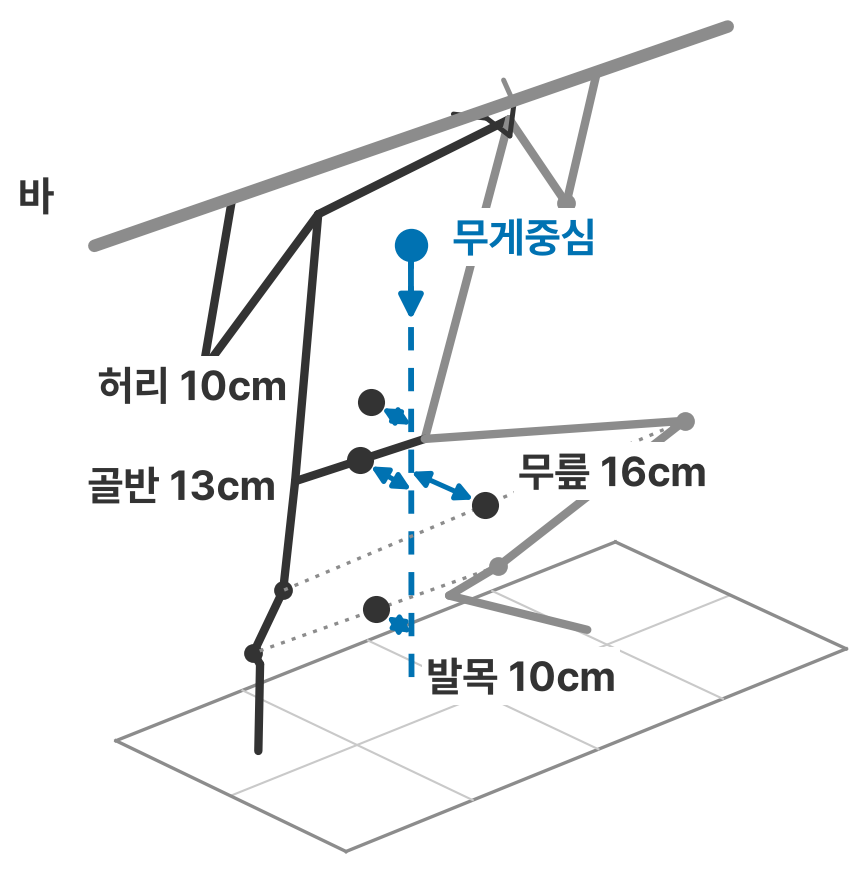
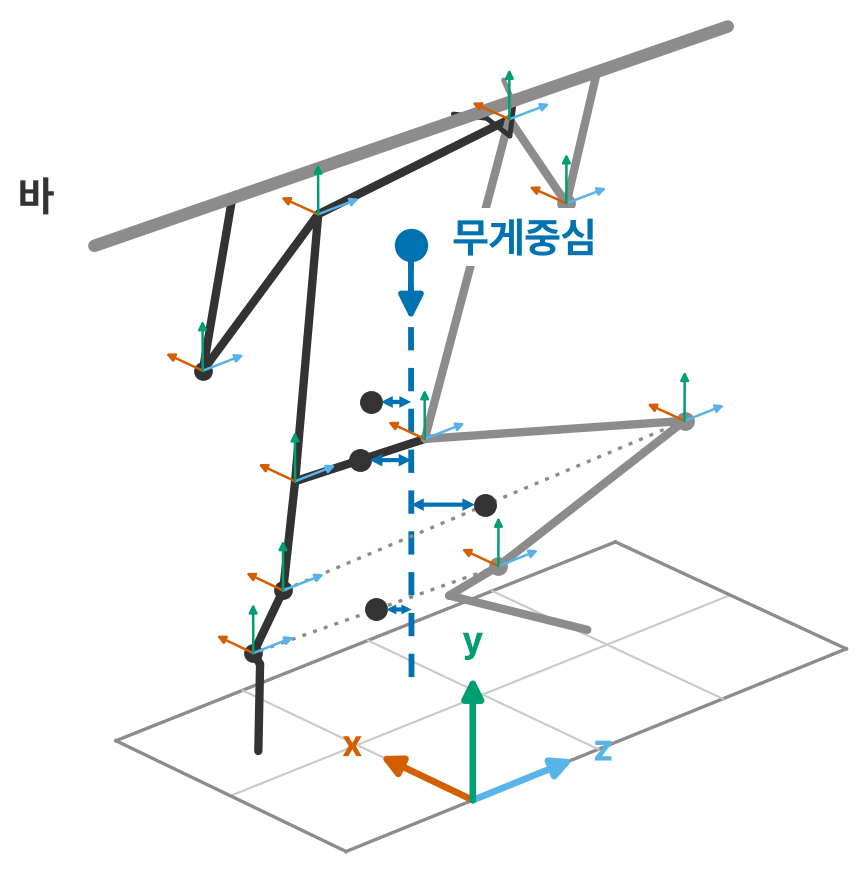
feat: 2장 하중 경로 그림, 관절 cm 이름표 대신 좌우 모멘트 암 화살표와 xyz 축 (#6)
- 관절 이름표 넷("허리 10cm" 등) 삭제, 시점은 보고서 그림 24 와 같은 사선 위 그대로
- 관절 점에서 무게중심선까지 화면 기준 좌우 화살표. 짧은 화살표는 촉을 길이에 맞춰 줄이고, 촉은 테두리 없이 채움
- 바닥 좌표계 원점에 x, y, z 축과 글자, 양쪽 어깨, 팔꿈치, 골반, 무릎, 발목에 얇은 축(x 빨강, y 초록, z 하늘색)
- load_path_arms.png 다시 그림

diff --git a/app/src/sessions/graduation-review/assets/make_load_path.py b/app/src/sessions/graduation-review/assets/make_load_path.py
@@ -1,11 +1,16 @@
 """Draw slide 2's load-path figure: one squat bottom frame, four joints, four moment arms.
 
 A slide variant of figure 24 from rack-tracker's report (#635 `make_figures.py`,
-`fig24_load_path`). Same frame and drawing, with three changes for the slide: the
-floor tick numbers are gone, each joint label carries its distance to the
-centre-of-mass line in cm, and the labels are larger. The data file is a copy of
+`fig24_load_path`). Same frame, view and drawing, with four changes for the
+slide: the floor tick numbers and the joint labels are gone; each joint's arrow to
+the centre-of-mass line is drawn left-right on the page (in this view the
+front-back arm runs into the page, so the figure's 3D arrow is only a few points
+long and its two heads merge into a blob); and the floor frame's x, y, z axes are
+drawn at the floor origin and, thin, at both shoulders, elbows, hips, knees and
+ankles, to show the figure is 3D.
+The data file is a copy of
 the report's `data/fig24_squat_bottom.json` (session 20261012-115120, set 1, rep 3,
-bar 100kg); the distances are its `arm_cm`, rounded.
+bar 100kg).
 
     python make_load_path.py
 """
@@ -43,11 +48,18 @@ BONES = [("left_shoulder", "right_shoulder"), ("left_shoulder", "left_elbow"), (
          ("right_hip", "right_knee"), ("right_knee", "right_ankle"), ("left_ankle", "left_heel"),
          ("left_heel", "left_foot_index"), ("right_ankle", "right_heel"), ("right_heel", "right_foot_index"),
          ("nose", "left_eye"), ("nose", "right_eye"), ("left_eye", "left_ear"), ("right_eye", "right_ear")]
-# joint key -> (label, label offset in pt, which side of the dot the label sits). The labels left of the line
-# sit past the near leg so their white plates do not cut it; the ankle label goes below the line's foot, away from
-# the near knee dot
-JOINTS = {"ankle": ("발목", (12, -16), "left"), "knee": ("무릎", (8, 8), "left"), "hip": ("골반", (-20, -6), "right"),
-          "lumbar": ("허리", (-20, 4), "right")}
+# joints whose moment arm is drawn: a dot, and a two-headed arrow from it to the centre-of-mass line
+JOINTS = ("ankle", "knee", "hip", "lumbar")
+ARM_HEAD = 3.0         # longest arrow head (pt); a short arrow gets smaller heads so its shaft still shows
+ARM_SHRINK = 2.4       # pt, just past the dot's edge so the near head is not hidden under it
+ARM_LW = 1.0
+JOINT_MS = 4.5         # joint dot size (pt); ARM_SHRINK is just past its radius
+# floor frame axes as plot directions (y is up, z comes toward the viewer), coloured x red, y green, z blue as in
+# 3D tools; z is a light blue so it is not read as the centre-of-mass accent
+AXES = (("x", (1, 0, 0), "#D55E00"), ("y", (0, 0, 1), "#009E73"), ("z", (0, -1, 0), "#56B4E9"))
+ORIGIN_AXIS = 20       # cm, axes at the floor origin (the floor board's corner)
+JOINT_AXIS = 8         # cm, thin axes at each joint below, both sides
+AXIS_JOINTS = tuple(f"{s}_{k}" for s in ("right", "left") for k in ("shoulder", "elbow", "hip", "knee", "ankle"))
 
 
 class Arrow3D(FancyArrowPatch):
@@ -128,6 +140,16 @@ def main():
     for v in range(y0, y1 + 1, FLOOR_STEP):
         line((x0, v, 0), (x1, v, 0), color=MID if v in (y0, y1) else LIGHT, lw=0.8 if v in (y0, y1) else 0.5)
 
+    def axes_at(p, size, lw, scale, names=False):
+        for name, d, color in AXES:
+            ax.add_artist(Arrow3D(p, tuple(a + size * b for a, b in zip(p, d)), arrowstyle="-|>", mutation_scale=scale,
+                                  shrinkA=0, shrinkB=0, color=color, lw=lw))
+            if names:
+                ax.text(*(a + (size + 6) * b for a, b in zip(p, d)), name, fontsize=9, color=color, ha="center",
+                        va="center", fontweight="bold", fontstyle="italic")
+
+    axes_at((0, 0, 0), ORIGIN_AXIS, 1.6, 10, names=True)
+
     # body: far (left) limbs light, near (right) limbs and trunk dark, face thin
     for a, b in BONES:
         if a not in J or b not in J:
@@ -138,6 +160,8 @@ def main():
     for side, color in (("left", MID), ("right", DARK)):
         for k in ("elbow", "knee", "ankle"):
             dot(J[f"{side}_{k}"], ms=3.5, color=color)
+    for n in AXIS_JOINTS:
+        axes_at(J[n], JOINT_AXIS, 0.6, 4)
     tip = lambda s: tuple(c + s * BAR_HALF * m for c, m in zip(bar, ml))      # noqa: E731
     line(tip(-1), tip(1), color=MID, lw=3.0, solid_capstyle="round")
     tag(tip(1), "바", -14, 12)
@@ -149,15 +173,27 @@ def main():
                           shrinkB=0, color=ACCENT, lw=1.4))
     tag(com, "무게중심", 10, 2, color=ACCENT, ha="left")
 
-    # joint points and their distance to the line
+    # joint points, and a left-right arrow on the page from each to the line at the dot's height
     for side in ("knee", "ankle"):
         line(J[f"left_{side}"], J[f"right_{side}"], color=MID, lw=0.8, ls=DOTTED)
-    for k, (name, (dx, dy), ha) in JOINTS.items():
+    from mpl_toolkits.mplot3d import proj3d
+    M = ax.get_proj()
+    page = lambda p: proj3d.proj_transform(*p, M)[:2]                       # noqa: E731
+    (cx0, cy0), (cx1, cy1) = page(com), page((com[0], com[1], 0))
+    for k in JOINTS:
         p = pts[k]
-        dot(p, ms=5.5, color=DARK)
-        tag(p, f"{name} {abs(D['arm_cm'][k]):.0f}cm", dx, dy, ha=ha)
-        ax.add_artist(Arrow3D(p, (com[0], com[1], p[2]), arrowstyle="<|-|>", mutation_scale=8, shrinkA=3, shrinkB=0,
-                              color=ACCENT, lw=1.2))
+        dot(p, ms=JOINT_MS, color=DARK)
+        x, y = page(p)
+        lx = cx0 + (cx1 - cx0) * (y - cy0) / (cy1 - cy0)
+        span = abs(ax.transData.transform((lx, y))[0] - ax.transData.transform((x, y))[0]) * 72 / fig.dpi
+        head = min(ARM_HEAD, (span - ARM_SHRINK) / 3.5)
+        # heads filled with no outline (an outline swells them by about its width and two heads on a 7pt arrow
+        # merge), then the shaft as its own line, ending inside the heads
+        at = dict(xy=(lx, y), xytext=(x, y), xycoords="data")
+        ax.annotate("", **at, arrowprops=dict(arrowstyle=f"<|-|>,head_length={head:.2f},head_width={0.5 * head:.2f}",
+                                              mutation_scale=1, shrinkA=ARM_SHRINK, shrinkB=0, color=ACCENT, lw=0))
+        ax.annotate("", **at, arrowprops=dict(arrowstyle="-", shrinkA=ARM_SHRINK + head / 2, shrinkB=head / 2,
+                                              color=ACCENT, lw=ARM_LW))
 
     fig.savefig(OUT, dpi=300, facecolor="white", bbox_inches=drawn_bbox(fig))
     plt.close(fig)

diff --git a/docs/issues/feature/6-feature-graduation-review-media.md b/docs/issues/feature/6-feature-graduation-review-media.md
@@ -15,12 +15,14 @@ Parent: #6
 - 1장 왼쪽 칸에 글자 없는 리그 설계도 회전 영상.
 - 7~10장 애니메이션이 칸을 채우고, 움직이는 곳이 화면에서 크게 보인다.
 - 8장 두 영상에 바닥 앵커, 랙 앵커, 검산 코너가 나온다.
+- 2장 하중 경로 그림에서 관절마다 무게중심선까지의 거리가 화살표로 보이고, 3D 좌표라는 것이 드러난다.
 
 ## Scope
 - `slides/Slide01.jsx`, `Slide01.module.css`: 왼쪽 칸 영상.
 - `components/MediaPair.jsx`, `deck.css`(gr-media 절), `slides/Media.module.css`: 7~10장 배치.
 - `slides/Slide07.jsx`~`Slide10.jsx`: `MediaPair` 부분.
 - `app/public/graduation-review/`: mp4.
+- `assets/make_load_path.py`, `assets/load_path_arms.png`: 2장 그림.
 
 ## Out Of Scope
 - 7~10장의 단계 번호("05 · 네 절차"), 3~6장, 11장, `slides/index.js`, 세션 문서의 장 순서. 같은 working tree 에서 다른 작업이 고치는 중이라 이 issue 에 넣지 않는다.
@@ -32,6 +34,7 @@ Parent: #6
 - [x] 7~10장 애니메이션 칸 확대, 시연 영상은 오른쪽에 본문 높이 전체.
 - [x] 애니메이션 넷을 카메라 이동판으로 교체, 8장 시연 영상 다시 자르기.
 - [x] 1장, 7~10장 캡처 확인.
+- [x] 2장 그림의 좌우 화살표와 xyz 축, 캡처 확인.
 
 ---
 
@@ -60,6 +63,20 @@ Parent: #6
 - 1장과 7~10장을 캡처해 봤다. 8장 캡션 둘은 각각 한 줄에 들어간다.
 - 영상마다 일정 간격으로 프레임을 뽑아 한 장에 붙여, 카메라가 움직이는 곳을 따라가는지 봤다.
 - 영상 여섯은 `ffprobe` 로 크기, 길이, 60fps 를 확인했다.
+
+### feat: 2장 하중 경로 그림, 관절 cm 이름표 대신 좌우 모멘트 암 화살표와 xyz 축 (#6)
+
+> 2장 그림에서 관절마다 붙은 "허리 10cm" 같은 이름표를 지우고, 관절 점에서 무게중심선까지 좌우 화살표를 그린다. 바닥 원점과 관절마다 x, y, z 축을 그려 3D 좌표라는 것을 드러낸다.
+
+#### Changes
+- `assets/make_load_path.py`: 관절 이름표 넷(허리, 골반, 무릎, 발목과 cm)을 지웠다. 시점은 보고서 그림 24 와 같은 사선 위(앙각 25°, 옆에서 앞쪽으로 50°)를 그대로 둔다.
+- 모멘트 암 화살표: 이 시점에서는 앞뒤 거리가 화면 안쪽으로 누워, 3D 로 그린 화살표가 몇 pt 로 짧아지고 양쪽 촉이 붙어 덩어리로 보였다. 그래서 관절 점에서 무게중심선까지 화면 기준 좌우로 긋는다. 짧은 화살표(허리, 발목, 7pt 안팎)는 촉을 길이에 맞춰 줄인다. 촉은 테두리 없이 채우고 몸통 선을 따로 그린다. 테두리가 촉을 1pt 쯤 부풀려 짧은 화살표에서 두 촉이 붙었기 때문이다.
+- xyz 축: 바닥 좌표계 원점(바닥 보드 모서리, 8장의 원점)에 굵은 x, y, z 축과 글자를 그리고, 양쪽 어깨, 팔꿈치, 골반, 무릎, 발목 10곳에 같은 방향의 얇은 축을 그린다. 색은 3D 도구의 관례대로 x 빨강(`#D55E00`), y 초록(`#009E73`, 위쪽), z 파랑이다. z 는 무게중심의 진한 파랑(`#0072B2`)과 구분되게 하늘색(`#56B4E9`)으로 했다.
+- `assets/load_path_arms.png`: 위 스크립트로 다시 그렸다.
+
+#### Verification
+- 개발 서버에서 2장을 캡처해 봤다. 화살표 넷이 슬라이드 크기에서 ↔ 로 보이고, 관절 축 10곳과 바닥 축이 몸통, 화살표와 겹치지 않는다.
+- 옆에 가까운 시점(앙각 15°, 15°)이면 화살표가 길게 눕지만, 사용자가 사선 위 시점을 골라 원래 시점으로 되돌렸다.
 
 ## Management Notes
 
